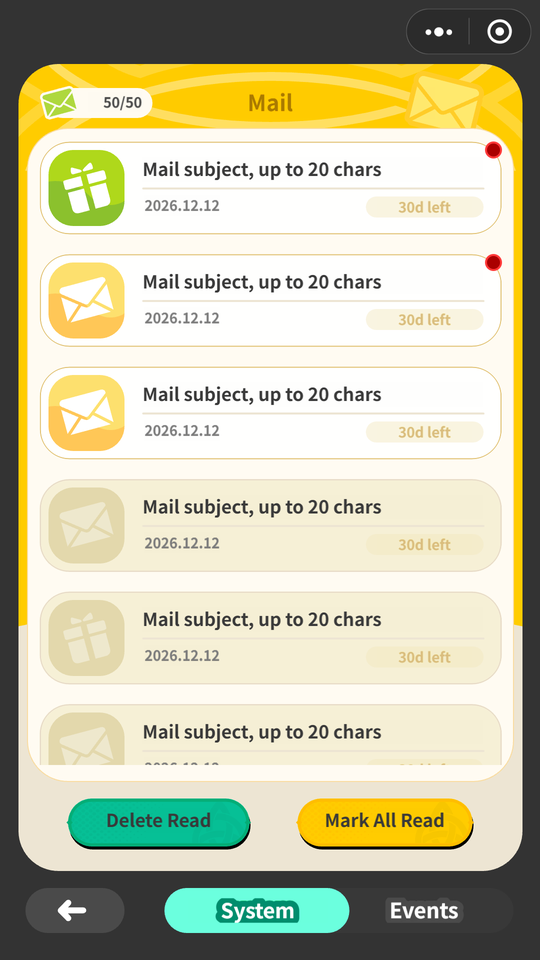
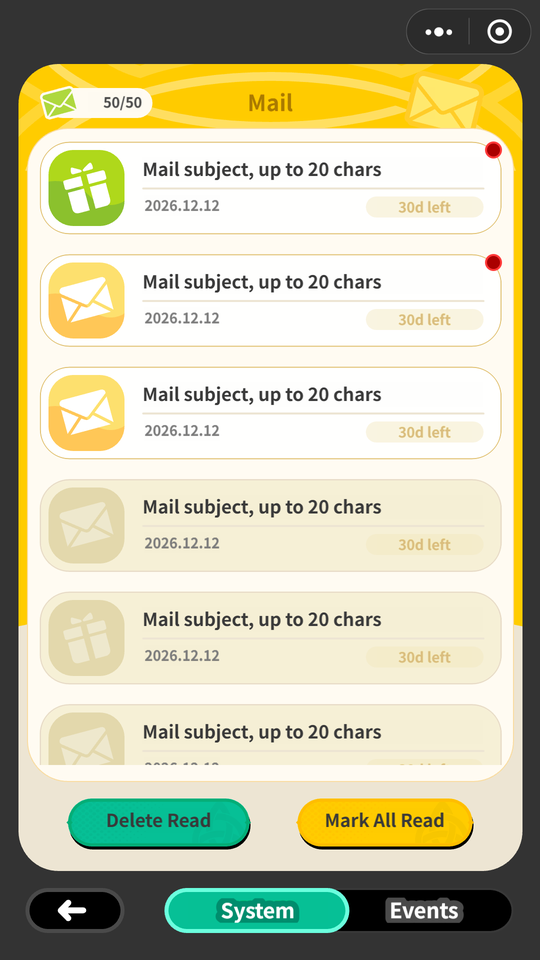
fix(cocos): punch holes with a stencil — Graphics ignores winding order
The bottom bar was the last thing in the four-way comparison that still looked
wrong, and only in Cocos: the two black pills rendered grey and the green one
rendered a washed-out mint, while HTML, Godot and Unity all agreed.

The cause is one layer below "Graphics has no fill-rule API". Its tessellator
does not consider winding order at all — `_expandFill` loops over contours and
calls `Earcut(data, null, 3)` once per contour, and that second argument is
`holeIndices`. So the standard trick, reversing the inner contour so the
windings cancel, is a no-op here: both contours fill solid and the inner one
covers the outer. The runtime had been doing exactly that and the comment
above it claimed it worked.

It matters because since v1.3 capture splits Figma's stroke band into a ring —
outer contour, inner contour, `evenodd` — and a ring filled solid is a shape
painted entirely in its stroke colour. That was 5.41/255 of the comparison.

Holes are now punched with a stencil: a path with contours enclosed by another
(and `rule: evenodd`) gets one extra node carrying an inverted
`GRAPHICS_STENCIL` mask whose stencil is those hole contours, with the fill on
its child. `inverted` means "draw everywhere except the stencil", which is
what a hole is. Paths without holes do not pay for the extra node — 3 of the
97 paths across the four screens need one.

`rule` is still honoured rather than assumed: in a nonzero path the winding is
[…]

Changed region(s): [[0.2963, 0.9062, 0.9481, 0.9688], [0.0593, 0.9062, 0.237, 0.9688]]

diff --git a/figma2cocos/runtime/figma-ui.ts b/figma2cocos/runtime/figma-ui.ts
@@ -322,9 +322,17 @@ function contourBoxes(cmds: PathCmd[]): number[][] {
 /**
  * `paths` → Graphics 真画。一条 path 一个子节点(一个 Graphics 只有一种 fillColor)。
  *
- * **填充规则**:Graphics 没有 fill-rule API。IR 里 evenodd 的多轮廓几乎都是"环/带洞"
- * (v1.3 起描边带就是发的这种环),而 Graphics 按缠绕方向定内外 —— 所以**把落在别的轮廓
- * 里面的那条反向**:这样无论底层按 nonzero 还是 evenodd,洞都是洞。
+ * **填充规则:洞得靠 Mask 挖,靠不了缠绕方向。** Graphics 没有 fill-rule API,而它的
+ * 三角化**根本不看缠绕**:引擎的 `_expandFill` 是逐轮廓循环、每条各调一次
+ * `Earcut(data, null, 3)` —— 第二个参数是 holeIndices,恒为 `null`。所以"把内轮廓翻个向"
+ * 这种在 canvas/SVG 上管用的招数,在这里是**空操作**:两条轮廓各自填实,内圈那条直接盖住外圈。
+ *
+ * 代价是看得见的:底栏那三颗胶囊(v1.3 起描边带就是发的「外轮廓 + 内轮廓 + evenodd」这种环)
+ * 于是整颗被描边色填满 —— 黑胶囊变灰、绿药丸变成发白的薄荷色,而 html/godot/unity 三家都是对的。
+ *
+ * 改法:有洞的路径拆成两层 —— 外层挂一个 **inverted 的 GRAPHICS_STENCIL Mask**、模板画的是
+ * 那些"洞"轮廓,填充色画在它的子节点上。inverted 的语义正好是"模板之外才画",于是洞是真的洞。
+ * 没洞的路径照旧一层,不为少数情况给所有人加节点。
  */
 function paintPaths(node: Node, el: CapEl, ga: number): void {
   const ut = node.getComponent(UITransform)!;
@@ -365,61 +373,73 @@ function paintPaths(node: Node, el: CapEl, ga: number): void {
     cut.setContentSize(el.w, el.h);
     node.addChild(child);
     child.setPosition(0, 0, 0);
-    const g = child.addComponent(Graphics);
-    g.fillColor = toColor(col, ga);
-    // **只有 evenodd 才能翻轮廓方向**。nonzero 的路径里,绕向本身就是数据 ——
-    // figma 导出的多轮廓形状(信封上镂空的折线、48 段的描边几何)靠内外相反的绕向挖洞,
-    // 无条件按包围盒把"内轮廓"翻一遍,等于把这份数据毁掉:洞被填实,线看着就粗了一圈。
-    // evenodd 则相反:Graphics 只认 nonzero,得把内轮廓翻过来才挖得出洞。
+
+    // 哪些轮廓是"洞":evenodd 且包围盒被别的轮廓整个套住。nonzero 的路径不判 ——
+    // 那里的绕向本身就是数据(信封上镂空的折线、48 段的描边几何都靠它),不该动。
     const evenOdd = String(p.rule || '').toLowerCase() === 'evenodd';
     const boxes = contourBoxes(cmds);
     const inside = boxes.map((b, i) => evenOdd && boxes.some((o, j) =>
       j !== i && o[0] <= b[0] && o[1] <= b[1] && o[2] >= b[2] && o[3] >= b[3]));
+    let holes = false;
+    for (const f of inside) if (f) holes = true;
     // 轮廓用**下标区间**表示,不用一个反复重新赋值的数组变量 —— 同上那条 Babel 约束:
     // `let sub: PathCmd[] = []` 再被 `sub = [c]` 赋值,声明的 TS 注解与字面量推出的 Flow 注解
     // 撞在一起,整份脚本编译不进包。
     const starts: number[] = [];
     for (let k = 0; k < cmds.length; k++) if (cmds[k].op === 'M') starts.push(k);
-    starts.forEach((s0, ci) => {
-      let end = cmds.length;
-      if (ci + 1 < starts.length) end = starts[ci + 1];
-      const raw: PathCmd[] = cmds.slice(s0, end).filter(c => c.op !== 'Z');
-      if (!raw.length) return;
-      let seq: PathCmd[] = raw;
-      if (inside[ci]) seq = reverseContour(raw);
-      for (const c of seq) {
-        if (c.op === 'M') { const [x, y] = map(c.x, c.y); g.moveTo(x, y); }
-        else if (c.op === 'L') { const [x, y] = map(c.x, c.y); g.lineTo(x, y); }
-        else if (c.op === 'C') {
-          const [x1, y1] = map(c.x1, c.y1), [x2, y2] = map(c.x2, c.y2), [x, y] = map(c.x, c.y);
-          g.bezierCurveTo(x1, y1, x2, y2, x, y);
-        } else if (c.op === 'Q') {
-          const [x1, y1] = map(c.op1x, c.op1y), [x, y] = map(c.x, c.y);
-          g.quadraticCurveTo(x1, y1, x, y);
-        }
+
+    // 有洞才多套一层:inverted 模板画"洞",填充色画在它的子节点上 → 洞是真的洞。
+    let target: Node = child;
+    if (holes) {
+      const mask = child.addComponent(Mask);
+      mask.type = Mask.Type.GRAPHICS_STENCIL;
+      mask.inverted = true;
+      const mg = mask.subComp as Graphics | null;
+      if (mg) {
+        mg.clear();
+        emitContours(mg, cmds, starts, inside, true, map);
+        mg.fill();
+      } else {
+        console.warn('[figma-ui] 洞的模板建不出来,这条路径会被填实:', el.id, idx);
       }
-      g.close();
-    });
+      const holeFill = adopt(new Node('fill'), child);
+      const hut = holeFill.addComponent(UITransform);
+      hut.setAnchorPoint(ut.anchorX, ut.anchorY);
+      hut.setContentSize(el.w, el.h);
+      child.addChild(holeFill);
+      holeFill.setPosition(0, 0, 0);
+      target = holeFill;
+    }
+
+    const g = target.addComponent(Graphics);
+    g.fillColor = toColor(col, ga);
+    emitContours(g, cmds, starts, inside, false, map);
     g.fill();
   });
 }
 
-/** 轮廓反向(首个 M 不动,其余命令倒着重连) —— 用来把"洞"的缠绕方向翻过来。 */
-function reverseContour(sub: PathCmd[]): PathCmd[] {
-  const pts: PathCmd[] = sub.slice();
-  if (!pts.length || pts[0].op !== 'M') return sub;
-  const start = pts[0] as { op: 'M'; x: number; y: number };
-  const ends: [number, number][] = [[start.x, start.y]];
-  for (const c of pts.slice(1)) if (c.op !== 'Z') ends.push([c.x, c.y]);
-  const out: PathCmd[] = [{ op: 'M', x: ends[ends.length - 1][0], y: ends[ends.length - 1][1] }];
-  for (let k = pts.length - 1; k >= 1; k--) {
-    const c = pts[k];
-    const to = ends[k - 1];
-    if (c.op === 'L') out.push({ op: 'L', x: to[0], y: to[1] });
-    else if (c.op === 'C') out.push({ op: 'C', x1: c.x2, y1: c.y2, x2: c.x1, y2: c.y1, x: to[0], y: to[1] });
-    else if (c.op === 'Q') out.push({ op: 'Q', op1x: c.op1x, op1y: c.op1y, x: to[0], y: to[1] });
-  }
-  return out;
+/** 把轮廓画进 g:`wantHoles` 为真只画"洞"那几条,为假只画外圈(没洞时即全部)。 */
+function emitContours(g: Graphics, cmds: PathCmd[], starts: number[], inside: boolean[],
+                      wantHoles: boolean, map: (x: number, y: number) => [number, number]): void {
+  starts.forEach((s0, ci) => {
+    if (inside[ci] !== wantHoles) return;
+    let end = cmds.length;
+    if (ci + 1 < starts.length) end = starts[ci + 1];
+    const seq: PathCmd[] = cmds.slice(s0, end).filter(c => c.op !== 'Z');
+    if (!seq.length) return;
+    for (const c of seq) {
+      if (c.op === 'M') { const [x, y] = map(c.x, c.y); g.moveTo(x, y); }
+      else if (c.op === 'L') { const [x, y] = map(c.x, c.y); g.lineTo(x, y); }
+      else if (c.op === 'C') {
+        const [x1, y1] = map(c.x1, c.y1), [x2, y2] = map(c.x2, c.y2), [x, y] = map(c.x, c.y);
+        g.bezierCurveTo(x1, y1, x2, y2, x, y);
+      } else if (c.op === 'Q') {
+        const [x1, y1] = map(c.op1x, c.op1y), [x, y] = map(c.x, c.y);
+        g.quadraticCurveTo(x1, y1, x, y);
+      }
+    }
+    g.close();
+  });
 }
 
 const H_ALIGN: Record<string, number> = {

diff --git a/docs/verification.md b/docs/verification.md
@@ -9,7 +9,7 @@ this is what someone needs before touching that backend — and the two grow at 
 
 ## figma2godot — Godot
 
-✅ **Godot 4.3**, re-verified on **4.7.1** (2026-08-04): both examples still render clean, zero engine errors. That same 4.7.1 run was also the first time the compiler was fed a **real Figma capture** rather than a synthesised fixture, and it immediately surfaced a bug the fixtures cannot reach: Figma component-instance ids carry semicolons (`I25:4109;206:12513;202:12604`), and `sub_resource` ids accept only `[A-Za-z0-9_]`, so every StyleBoxFlat and Gradient on an instanced element failed to register and those elements rendered unstyled. Fixed and now asserted. A second real-capture run on 2026-08-05 found the other thing fixtures cannot reach: Godot's `clip_children` **cannot nest**, so when rounded clips nest the compiler has to pick one, and it was picking the innermost — which left the outer panel clipped by a rectangular scissor and its 80px bottom corners squared off against the background. It now gives `clip_children` to the **outermost** clip on each ancestor chain (the outline is what the eye reads; inner clips sit inside an already opaque parent) and degrades the inner ones to a rectangular `clip_contents`, logged as known-loss. The login and main-screen shots below are a **real pixel comparison** against HTML — mean 2.2–3.9/255, under 2.5% of pixels off by more than 24, all of it on glyph edges (the two shots used to be at different scales, which looked fine and compared to nothing; `shoot_stage.py` fixes that). Motion runs in-engine and was **screenshotted mid-transition** — curves agree with Python and Unity to 6 decimals at a non-key point, and the frames caught a backdrop bug no numeric check could see. **The v1.1 `@in:` branch added on 2026-07-31 has not been through an engine run** — it is held by source-level conformance assertions only, and this row will stay qualified until someone re-runs the engine.
+✅ **Godot 4.3**, re-verified on **4.7.1** (2026-08-04): both examples still render clean, zero engine errors. That same 4.7.1 run was also the first time the compiler was fed a **real Figma capture** rather than a synthesised fixture, and it immediately surfaced a bug the fixtures cannot reach: Figma component-instance ids carry semicolons (`I25:4109;206:12513;202:12604`), and `sub_resource` ids accept only `[A-Za-z0-9_]`, so every StyleBoxFlat and Gradient on an instanced element failed to register and those elements rendered unstyled. Fixed and now asserted. A second real-capture run on 2026-08-05 found the other thing fixtures cannot reach: Godot's `clip_children` **cannot nest**, so when rounded clips nest the compiler has to pick one, and it was picking the innermost — which left the outer panel clipped by a rectangular scissor and its 80px bottom corners squared off against the background. It now gives `clip_children` to the **outermost** clip on each ancestor chain (the outline is what the eye reads; inner clips sit inside an already opaque parent) and degrades the inner ones to a rectangular `clip_contents`, logged as known-loss. The login and mail shots in the README are a **real pixel comparison** against HTML — mean 2.2–3.9/255, under 2.5% of pixels off by more than 24, all of it on glyph edges (the two shots used to be at different scales, which looked fine and compared to nothing; `shoot_stage.py` fixes that). Motion runs in-engine and was **screenshotted mid-transition** — curves agree with Python and Unity to 6 decimals at a non-key point, and the frames caught a backdrop bug no numeric check could see. **The v1.1 `@in:` branch added on 2026-07-31 has not been through an engine run** — it is held by source-level conformance assertions only, and this row will stay qualified until someone re-runs the engine.
 
 ## figma2unity — Unity
 
@@ -18,3 +18,5 @@ this is what someone needs before touching that backend — and the two grow at 
 ## figma2cocos — Cocos Creator
 
 ✅ **Cocos Creator 3.8.8** (2026-08-05) — built for `web-desktop` from a real Figma capture and **screenshotted at 1080×1920**, mean **6.21–8.93/255** against the HTML build on the same frame, the same order as Godot and Unity. Getting there took three bugs that only a real engine can show. (1) `new Node()` lands on `Layers.Enum.DEFAULT` while the UI camera only draws `UI_2D`, so the whole tree built correctly, every component present, and **not one pixel appeared, with no error** — nodes now inherit their mount point's layer. (2) The Creator build pipeline runs Babel, and a conditional whose one branch is inferred as a Flow annotation makes `createTSUnionType` throw, which fails **the entire script**, invisible to `tsc` because `tsc` never runs Babel. (3) `Graphics.arc` is not canvas's `arc`: its first point is a `moveTo`, so it **always starts a new sub-path** instead of continuing from the current point, and `counterclockwise=false` sweeps *decreasing* angles — so "straight edge + four corner arcs" became four disjoint sub-paths filled as one polygon (every rounded box shredded into diagonal wedges) with the reversed sweeps drawn as giant loops. Corners are cubic Béziers now. All three are pinned by source-level guards. A second pass the same day closed three more that only pixels show: `UIOpacity` turns out **not to affect Graphics at all** — not on the node, not cascaded from an ancestor — so an `opacity: 0.38` white decoration painted as opaque white and smeared the whole title bar; Graphics colours now carry the entire ancestor chain's opacity (an in-engine probe settled it: `fillColor` alpha works, both `UIOpacity` spellings read pure 255). `border-radius` percentages are resolved **per axis** as CSS requires, so the panel's 2143×680 bottom sweep is a real ellipse again instead of a capsule with its arc 38px flatter. And gradients are baked into a texture shown through a rounded Mask instead of collapsing to their first stop — uploaded via `Texture2D.reset` + `uploadData`, because the `ImageAsset` route throws `texSubImage2D … Overload resolution failed` every frame. A third pass found two more: Creator **trims the transparent border off imported PNGs** and then `SizeMode.CUSTOM` stretches what is left to fill the box, so every icon came out ~8% too big (`sprite.trim = false` fixes it); and figma's stroke geometry is a **pre-cut band of width 2w** that expects the consumer to hide half of it — drawing the paths in array order left the whole band showing, i.e. every outline twice as thick, so paths are now drawn in three passes by `clip` like figma2unity does. With the shared design font on top, the means are **6.21→4.30 / 8.93→6.08 / 8.76→6.18 / 6.33→6.04**. Also implemented rather than declared away: `clip` via `Mask.Type.GRAPHICS_STENCIL` (follows the radius, and unlike Godot's `clip_children` it **nests**), `paths` drawn through `Graphics`, hard shadows and `borderAlign: outside` as sibling underlays, `text.wrap`, and per-corner radii. Still lost: blurred shadows. It also strict-typechecks against official `@cocos/creator-types` 3.8.3 (engine d.ts, decorators incl.) and **you can run that gate**: `cd tools/cocos-typecheck && npm ci && python3 check.py`, also in CI; it asserts zero errors **and** that planting a type error into the real source makes `tsc` report it. Motion is baked by its own `bake_motion.py`, sampled point-by-point against the other three backends (not yet watched in Play)
+
+A fourth pass on 2026-08-05 found the last visible defect in the bottom bar: **Graphics' tessellator ignores winding order entirely** — `_expandFill` calls `Earcut(data, null, 3)` once per contour, with `holeIndices` always `null`. Reversing an inner contour, which is how canvas and SVG get holes, does nothing here, so every stroke ring that capture emits since v1.3 filled solid and each pill in the bottom bar came out painted in its own stroke colour. Holes are now punched with an inverted `GRAPHICS_STENCIL` mask instead, on the 3 of 97 paths that actually need one. **5.41 → 3.86/255.**

diff --git a/README.md b/README.md
@@ -27,7 +27,7 @@ figma REST ──► figma_capture ──►  IR: <screen>.ui.json (pixels) + fl
 | figma2dsl | ✅ 19 | ✅ (same render pipeline) |
 | figma2godot | ✅ 30 | ✅ **Godot 4.3**, re-verified on **4.7.1**. Fed a real capture it found what synthesized fixtures cannot reach: Figma instance ids carry `;` while `sub_resource` ids accept only `[A-Za-z0-9_]`, so every StyleBoxFlat on an instanced element failed to register; and `clip_children` **cannot nest**, so a rounded panel inside a rounded panel lost its corners. Mail list vs HTML: **3.46/255**. Open gap: `radius: 50%` still draws as a capsule, not an ellipse. [full log](docs/verification.md#figma2godot--godot) |
 | figma2unity | ✅ 24 | ✅ **Unity 6000.4.8f1** and **2022.3.62f3**, the latter as a real built Windows player rendering 1080×1920 — not just a batchmode import check. That run caught what an import check cannot: **one invalid USS selector voids the entire stylesheet**, so 129 rules applied to nothing and the screen was black. Later passes fixed per-axis radius clamping, Painter2D joining a path's contours into one polygon, and 3D texture-import defaults bleeding UI edges. `paths`, `clip` and outside borders are implemented rather than declared away; gradients are baked to PNG at compile time. Mail list vs HTML: **2.87/255**. Still lost: blurred shadows. [full log](docs/verification.md#figma2unity--unity) |
-| figma2cocos | ✅ 16 | ✅ **Cocos Creator 3.8.8**, built for `web-desktop` and screenshotted at 1080×1920. Three of its bugs only an engine can show: nodes built in code land on the wrong layer, so the whole tree exists and **nothing draws, with no error**; `Graphics.arc` is not canvas's `arc` (its first point is a `moveTo`, and the sweep runs backwards); and `UIOpacity` does not affect `Graphics` at all. `clip` nests here via `GRAPHICS_STENCIL`, unlike Godot. Mail list vs HTML: **5.41/255**. Still lost: blurred shadows. [full log](docs/verification.md#figma2cocos--cocos-creator) |
+| figma2cocos | ✅ 16 | ✅ **Cocos Creator 3.8.8**, built for `web-desktop` and screenshotted at 1080×1920. Three of its bugs only an engine can show: nodes built in code land on the wrong layer, so the whole tree exists and **nothing draws, with no error**; `Graphics.arc` is not canvas's `arc` (its first point is a `moveTo`, and the sweep runs backwards); and `UIOpacity` does not affect `Graphics` at all. `clip` nests here via `GRAPHICS_STENCIL`, unlike Godot. Mail list vs HTML: **3.86/255**. Still lost: blurred shadows. [full log](docs/verification.md#figma2cocos--cocos-creator) |
 | figkit-motion | ✅ 6 | 📖 **not a backend** — the motion catalog the other five share: 59 effects (when to use one, **and when not to**), 63 parameter tokens with a `calibration` status, 6 shared algorithms. No runtime, no artifact. Its `tokens.json` and `motion.py`'s `PRESET` are compared token-by-token by the conformance suite, so the prose and the values figkit actually writes can't drift apart |
 
 Per-backend tests only compare a backend against its own expectations, so **31 more live in [`tools/conformance/`](tools/conformance/)**: one fixture exercising every IR feature, a table where each backend declares what it renders / approximates / drops, and checks that the declaration matches the real artifact, that every degradation is logged, and that it is written down in that backend's known-loss table. Three of those thirty are there because the suite itself had a hole: when the IR grew to v1.2 the new fields were added to the schema and to capture but **never to the fixture**, so they showed up as `paths: []` / `clip: false`, every backend "handled" them, every declaration "matched", and `paths` and `clip` were silently dropped by every backend with the whole suite green. It took feeding a real Figma file to a real engine to notice. Now: every field in the schema must be either declared structural or claimed by a feature; every declared feature's carrier element must hold a **non-default** value; and a backend that meets a field it does not implement has to name it on stderr. Same suite pins the backends to identical handling of malformed IR and of broken `flow.json` references, to the same sampled curve points, and — the layer that curve values alone can't reach — to the same *displacement basis*, the same shake waveform, and progress read off a clock rather than a tick count. (Counts above are verified by `tools/run_all_tests.py`, so they can't quietly go stale.)
@@ -73,7 +73,7 @@ frame:
 |---|---|---|
 | Unity 6000.4.8f1 | **2.87**/255 | 3.0% |
 | Godot 4.7.1 | **3.46**/255 | 3.6% |
-| Cocos Creator 3.8.8 | **5.41**/255 | 6.8% |
+| Cocos Creator 3.8.8 | **3.86**/255 | 4.5% |
 
 Nearly all of the remainder is on glyph edges and 1px antialiasing rings — the geometry lands
 on the pixels the IR's arithmetic predicts. It only reads that way because all four share one

diff --git a/figma2cocos/references/mapping.md b/figma2cocos/references/mapping.md
@@ -142,6 +142,33 @@ Canvas (cc.Canvas, designResolution = cap.w × cap.h)
 | `rot=0` inside instances | An upstream API limitation | Set `node.angle` by hand in the hook |
 | `unresolved` curves in `motion.json` | That transition shows/hides instantly | Figma publishes no control points for `BOUNCY` / `*_BACK`; do not invent numbers, see below |
 
+### Pitfall: Graphics cannot punch holes — winding order means nothing to it
+
+There is no `fill-rule` API here, but the real problem sits one layer below "no API":
+**Graphics' tessellator does not look at winding order at all**. The engine's `_expandFill` loops
+over contours and calls `Earcut(earcutData, null, 3)` once per contour — that second argument is
+`holeIndices`, and it is always `null`. So the trick that works on canvas and in SVG — reverse the
+inner contour so the windings cancel — is a **no-op** here: both contours fill solid, and the inner
+one simply covers the outer.
+
+The cost is visible. Since v1.3 capture splits Figma's stroke band into a **ring** (outer contour +
+inner contour + `evenodd`), and the three pills in the bottom bar are exactly that shape — so each
+pill came out filled with its *stroke* colour: the black pills went grey, the green one went a
+washed-out mint, while HTML, Godot and Unity were all correct. It was worth 5.41/255 of the
+four-way pixel comparison.
+
+The fix punches the hole with a **stencil** instead of with winding: when a path has contours fully
+enclosed by another (and `rule` is `evenodd`), it gets one extra layer — the outer node carries a
+`Mask` (`GRAPHICS_STENCIL`, `inverted = true`) whose stencil draws exactly those hole contours, and
+the fill is drawn on its child. `inverted` means "draw everywhere except the stencil", which is
+precisely a hole. Paths without holes do not get the extra layer: 3 of the 97 paths across the four
+screens need one, and a minority case should not cost everyone a node. Cocos went 5.41 →
+**3.86/255**, the bottom-bar strip alone 3.60.
+
+**`rule` has to be honoured.** In a nonzero path the winding *is* the data — the cut-out fold lines
+on the envelope and the 48-segment stroke geometry both depend on it — so treating every enclosed
+contour as a hole would destroy it. Only `evenodd` is inspected.
+
 ### Pitfall: `Graphics.arc` is not canvas's `arc`
 
 Rounded corners here are cubic Béziers, not arcs, and that is deliberate. The engine's

diff --git a/figma2cocos/references/mapping.zh.md b/figma2cocos/references/mapping.zh.md
@@ -117,6 +117,27 @@ Canvas (cc.Canvas, designResolution = cap.w × cap.h)
 | 实例内部 `rot=0` | 上游 API 限制 | hook 手动 `node.angle` |
 | `motion.json` 里 `unresolved` 的曲线 | 该转场瞬时显隐 | figma 没公开 `BOUNCY` / `*_BACK` 的控制点;别编数,见下 |
 
+### 踩坑:Graphics 的洞挖不出来 —— 缠绕方向对它无效
+
+`fill-rule` 在这里没有 API,但真正的问题比"没有 API"更靠下一层:**Graphics 的三角化根本不看
+缠绕方向**。引擎的 `_expandFill` 是逐轮廓循环、每条轮廓各调一次
+`Earcut(earcutData, null, 3)` —— 第二个参数正是 holeIndices,而它恒为 `null`。
+于是在 canvas / SVG 上通用的"把内轮廓翻个向,让缠绕相消"这一招,在这里是**空操作**:
+两条轮廓各自填实,内圈那条直接盖住外圈。
+
+代价看得见。v1.3 起,capture 把 figma 的描边带劈成「外轮廓 + 内轮廓 + evenodd」这种**环**发下来,
+底栏那三颗胶囊正是这个形状 —— 于是整颗被描边色填满:黑胶囊变灰、绿药丸变成发白的薄荷色,
+而 html / godot / unity 三家都是对的。四端逐像素比时,cocos 的均差因此挂在 5.41/255。
+
+改法是**用模板挖,不用缠绕挖**:一条路径里若有轮廓被别的轮廓整个套住(且 `rule` 是 evenodd),
+就多套一层 —— 外层挂 `Mask`(`GRAPHICS_STENCIL` + `inverted = true`)、模板画的正是那些"洞"轮廓,
+填充色画在它的子节点上。`inverted` 的语义恰好是"模板之外才画",于是洞是真的洞。
+没有洞的路径不加这一层:四屏 97 条路径里只有 3 条要挖洞,不该为少数情况给所有人多一个节点。
+修完 cocos 的均差 5.41 → **3.86/255**,底栏那一条 3.60。
+
+**`rule` 必须看。** nonzero 的多轮廓路径里,绕向本身就是数据(信封上镂空的折线、48 段的描边几何
+都靠它),按包围盒把"内轮廓"一律当洞处理会把这份数据毁掉。只有 evenodd 才判。
+
 ### 踩坑:`Graphics.arc` 不是 canvas 的 `arc`
 
 这里的圆角用三次贝塞尔而不是圆弧,是**故意的**。引擎的 `arc(cx, cy, r, a0, a1, ccw)` 与 canvas
